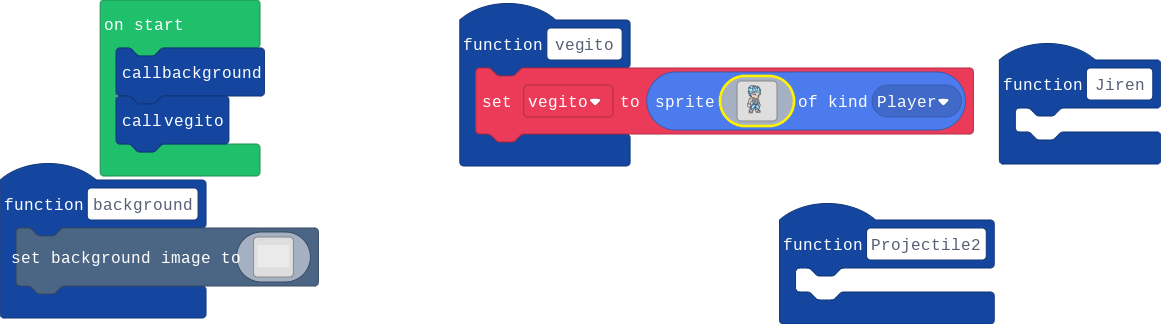
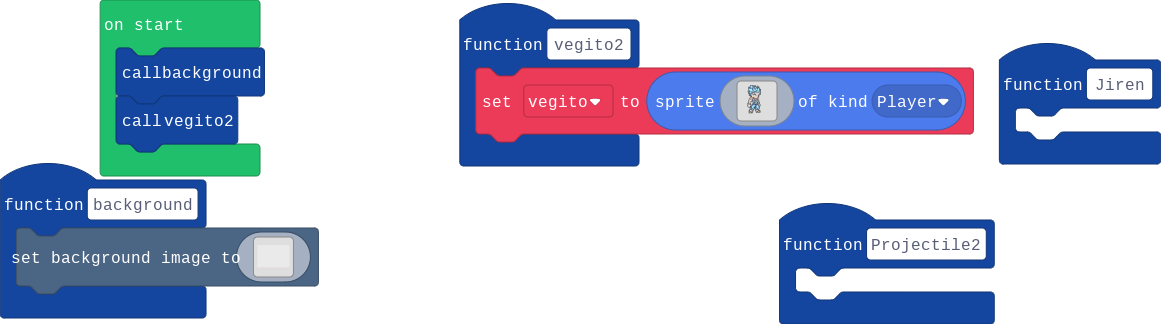
Update pxt.json, main.blocks, main.ts

diff --git a/main.ts b/main.ts
@@ -1,3 +1,57 @@
+function vegito2 () {
+    vegito = sprites.create(img`
+. . . . . . . . f f f f . . . f . . . . . . . . . . . . . . . . . . . 
+. . . . . . . . f 9 9 8 f f . f f . . f . . . . . . . . . . . . . . . 
+. . . . . . . f 8 9 9 9 8 8 f f 8 f . f . f . . . . . . . . . . . . . 
+. . . . . f . f 8 9 9 9 f 9 8 f 9 8 f 8 f f . . . . . . . . . . . . . 
+. . . . . f f f 8 8 9 9 f f 9 8 9 9 f 8 f 8 f . . . . . . . . . . . . 
+. . . . . f 9 f 8 8 8 8 f 9 f 8 8 9 8 f 8 9 f . . . . . . . . . . . . 
+. . . . . f 9 9 9 9 9 8 f 9 9 8 8 9 9 f 9 9 f . f . . . . . . . . . . 
+. . . . . f 9 9 9 9 9 f 8 9 9 9 8 9 9 8 9 9 f f f . . . . . . . . . . 
+. . . . . f 8 9 9 9 9 9 8 8 9 9 9 f f 8 9 9 8 9 f . . . . . . . . . . 
+. . . . . . f 8 9 9 9 8 9 9 8 9 f 8 9 9 9 8 f 8 f . . . . . . . . . . 
+. . . . f f f f 8 9 8 9 f 8 8 f 8 9 f 9 f 9 9 f . . . . . . . . . . . 
+. . . . . f 8 9 9 8 f f f f f 8 9 f 8 f 8 f 9 8 f . . . . . . . . . . 
+. . . . . . f 8 9 9 9 f d d f 9 8 d d d d d f 9 f . . . . . . . . . . 
+. . . . . f f f 8 f f f d d f 9 d d d d d d f 9 f . . . . . . . . . . 
+. . . . . . f 8 9 f d f d f f 8 f d d d d d f 8 f . . . . . . . . . . 
+. . . . . . . f f f d d d f 1 f f d d d d f f . . . . . . . . . . . . 
+. . . . . . f f 8 f d d d d 1 1 9 f d d f f . . . . . . . . . . . . . 
+. . . . . . . . f f f 1 d d d d d d d d d f . . . . . . . . . . . . . 
+. . . . . . . . . f f 5 d d d d d d d d f f . . . . . . . . . . . . . 
+. . . . . . . . e 4 4 4 f f d d d d d d f . . . . . . . . . . . . . . 
+. . . . . . . f e e 4 e 8 f f f d d d f e . . . . . . . . . . . . . . 
+. . . . . . . f d d 4 4 e 8 f d f f f 8 8 4 . . . . . . . . . . . . . 
+. . . . . . f d f d d e f 9 f d d f d f 9 e . . . . . . . . . . . . . 
+. . . . . . f d d d f f 8 9 8 f f f f f 9 f . . . . . . . . . . . . . 
+. . . . . f d d d d d f 8 8 9 f e 4 4 f 9 f . . . . . . . . . . . . . 
+. . . . . f d d d d f f 9 8 8 9 f e f 9 8 f . . . . . . . . . . . . . 
+. . . . . f d d f f . . f 9 f 8 9 8 9 8 f d f . . . . . . . . . . . . 
+. . . . . f d d d d . . . f f f 8 9 8 f f d f . . . . . . . . . . . . 
+. . . . f f f f f . . . f 8 8 9 9 9 9 8 f f f . . . . . . . . . . . . 
+. . . . f b 1 1 f . . . f f f f f f f f f 1 f . . . . . . . . . . . . 
+. . . . f b b f f f . f 8 f 8 8 f f f 8 f b 1 f . . . . . . . . . . . 
+. . . . f 1 b 1 b . f 8 f 9 9 8 8 f 8 9 8 f b f . . . . . . . . . . . 
+. . . . f 1 1 1 f . f 9 8 9 9 9 8 f 9 9 9 f 1 f . . . . . . . . . . . 
+. . . . f 1 b 1 f f 8 9 9 9 9 8 f 8 9 9 9 8 f . . . . . . . . . . . . 
+. . . . . f f b f f 8 9 9 9 8 f f f 9 9 9 9 f . . . . . . . . . . . . 
+. . . . . . . f f 8 8 9 9 8 f f f 8 8 9 9 8 f . . . . . . . . . . . . 
+. . . . . . . . f 9 f 8 8 9 8 f 8 9 f 8 8 9 f . . . . . . . . . . . . 
+. . . . . . . f 8 9 f f 9 8 f . f 8 9 f 9 f . . . . . . . . . . . . . 
+. . . . . . . f f f f 9 8 f . . f f f f f f . . . . . . . . . . . . . 
+. . . . . . f f 1 1 f f f . . . f b 1 1 1 f f . . . . . . . . . . . . 
+. . . . . . f b b 1 1 1 f . . . f b b b f f f f . . . . . . . . . . . 
+. . . . . . f f f f b f . . . . . f b f 5 1 5 f . . . . . . . . . . . 
+. . . . . . f 5 1 5 f f . . . . . f f f f f f f . . . . . . . . . . . 
+. . . . . . f f f f f f . . . . . . . . . . . . . . . . . . . . . . . 
+. . . . . . . . . . . . . . . . . . . . . . . . . . . . . . . . . . . 
+. . . . . . . . . . . . . . . . . . . . . . . . . . . . . . . . . . . 
+. . . . . . . . . . . . . . . . . . . . . . . . . . . . . . . . . . . 
+. . . . . . . . . . . . . . . . . . . . . . . . . . . . . . . . . . . 
+. . . . . . . . . . . . . . . . . . . . . . . . . . . . . . . . . . . 
+. . . . . . . . . . . . . . . . . . . . . . . . . . . . . . . . . . . 
+`, SpriteKind.Player)
+}
 function Jiren () {
 	
 }
@@ -128,60 +182,6 @@ d d d d d d d d d d d d d d d d d d d d d d d d d d d d d d d d d d d d d d d d 
 d d d d d d d d d d d d d d d d d d d d d d d d d d d d d d d d d d d d d d d d d d d d d d d d d d d d d d d d d d d d d d d d d d d d d d d d d d d d d d d d d d d d d d d d d d d d d d d d d d d d d d d d d d d d d d d d d d d d d d d d d d d d d d d d d d d d d d d d d d d d d d d d d d d d d d d d d d d d d d d d 
 `)
 }
-function vegito () {
-    vegito2 = sprites.create(img`
-. . . . . . . . f f f f . . . f . . . . . . . . . . . . . . . . . . . 
-. . . . . . . . f 9 9 8 f f . f f . . f . . . . . . . . . . . . . . . 
-. . . . . . . f 8 9 9 9 8 8 f f 8 f . f . f . . . . . . . . . . . . . 
-. . . . . f . f 8 9 9 9 f 9 8 f 9 8 f 8 f f . . . . . . . . . . . . . 
-. . . . . f f f 8 8 9 9 f f 9 8 9 9 f 8 f 8 f . . . . . . . . . . . . 
-. . . . . f 9 f 8 8 8 8 f 9 f 8 8 9 8 f 8 9 f . . . . . . . . . . . . 
-. . . . . f 9 9 9 9 9 8 f 9 9 8 8 9 9 f 9 9 f . f . . . . . . . . . . 
-. . . . . f 9 9 9 9 9 f 8 9 9 9 8 9 9 8 9 9 f f f . . . . . . . . . . 
-. . . . . f 8 9 9 9 9 9 8 8 9 9 9 f f 8 9 9 8 9 f . . . . . . . . . . 
-. . . . . . f 8 9 9 9 8 9 9 8 9 f 8 9 9 9 8 f 8 f . . . . . . . . . . 
-. . . . f f f f 8 9 8 9 f 8 8 f 8 9 f 9 f 9 9 f . . . . . . . . . . . 
-. . . . . f 8 9 9 8 f f f f f 8 9 f 8 f 8 f 9 8 f . . . . . . . . . . 
-. . . . . . f 8 9 9 9 f d d f 9 8 d d d d d f 9 f . . . . . . . . . . 
-. . . . . f f f 8 f f f d d f 9 d d d d d d f 9 f . . . . . . . . . . 
-. . . . . . f 8 9 f d f d f f 8 f d d d d d f 8 f . . . . . . . . . . 
-. . . . . . . f f f d d d f 1 f f d d d d f f . . . . . . . . . . . . 
-. . . . . . f f 8 f d d d d 1 1 9 f d d f f . . . . . . . . . . . . . 
-. . . . . . . . f f f 1 d d d d d d d d d f . . . . . . . . . . . . . 
-. . . . . . . . . f f 5 d d d d d d d d f f . . . . . . . . . . . . . 
-. . . . . . . . e 4 4 4 f f d d d d d d f . . . . . . . . . . . . . . 
-. . . . . . . f e e 4 e 8 f f f d d d f e . . . . . . . . . . . . . . 
-. . . . . . . f d d 4 4 e 8 f d f f f 8 8 4 . . . . . . . . . . . . . 
-. . . . . . f d f d d e f 9 f d d f d f 9 e . . . . . . . . . . . . . 
-. . . . . . f d d d f f 8 9 8 f f f f f 9 f . . . . . . . . . . . . . 
-. . . . . f d d d d d f 8 8 9 f e 4 4 f 9 f . . . . . . . . . . . . . 
-. . . . . f d d d d f f 9 8 8 9 f e f 9 8 f . . . . . . . . . . . . . 
-. . . . . f d d f f . . f 9 f 8 9 8 9 8 f d f . . . . . . . . . . . . 
-. . . . . f d d d d . . . f f f 8 9 8 f f d f . . . . . . . . . . . . 
-. . . . f f f f f . . . f 8 8 9 9 9 9 8 f f f . . . . . . . . . . . . 
-. . . . f b 1 1 f . . . f f f f f f f f f 1 f . . . . . . . . . . . . 
-. . . . f b b f f f . f 8 f 8 8 f f f 8 f b 1 f . . . . . . . . . . . 
-. . . . f 1 b 1 b . f 8 f 9 9 8 8 f 8 9 8 f b f . . . . . . . . . . . 
-. . . . f 1 1 1 f . f 9 8 9 9 9 8 f 9 9 9 f 1 f . . . . . . . . . . . 
-. . . . f 1 b 1 f f 8 9 9 9 9 8 f 8 9 9 9 8 f . . . . . . . . . . . . 
-. . . . . f f b f f 8 9 9 9 8 f f f 9 9 9 9 f . . . . . . . . . . . . 
-. . . . . . . f f 8 8 9 9 8 f f f 8 8 9 9 8 f . . . . . . . . . . . . 
-. . . . . . . . f 9 f 8 8 9 8 f 8 9 f 8 8 9 f . . . . . . . . . . . . 
-. . . . . . . f 8 9 f f 9 8 f . f 8 9 f 9 f . . . . . . . . . . . . . 
-. . . . . . . f f f f 9 8 f . . f f f f f f . . . . . . . . . . . . . 
-. . . . . . f f 1 1 f f f . . . f b 1 1 1 f f . . . . . . . . . . . . 
-. . . . . . f b b 1 1 1 f . . . f b b b f f f f . . . . . . . . . . . 
-. . . . . . f f f f b f . . . . . f b f 5 1 5 f . . . . . . . . . . . 
-. . . . . . f 5 1 5 f f . . . . . f f f f f f f . . . . . . . . . . . 
-. . . . . . f f f f f f . . . . . . . . . . . . . . . . . . . . . . . 
-. . . . . . . . . . . . . . . . . . . . . . . . . . . . . . . . . . . 
-. . . . . . . . . . . . . . . . . . . . . . . . . . . . . . . . . . . 
-. . . . . . . . . . . . . . . . . . . . . . . . . . . . . . . . . . . 
-. . . . . . . . . . . . . . . . . . . . . . . . . . . . . . . . . . . 
-. . . . . . . . . . . . . . . . . . . . . . . . . . . . . . . . . . . 
-. . . . . . . . . . . . . . . . . . . . . . . . . . . . . . . . . . . 
-`, SpriteKind.Player)
-}
-let vegito2: Sprite = null
+let vegito: Sprite = null
 background()
-vegito()
+vegito2()
